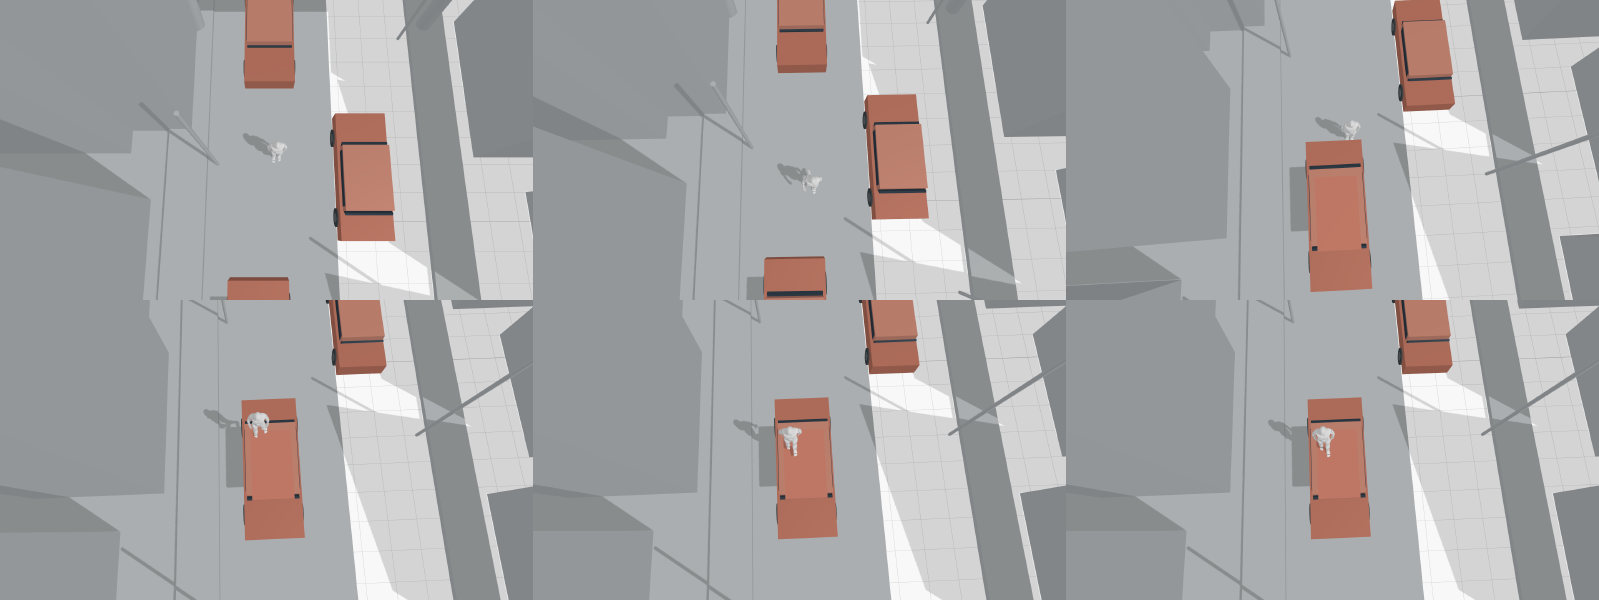
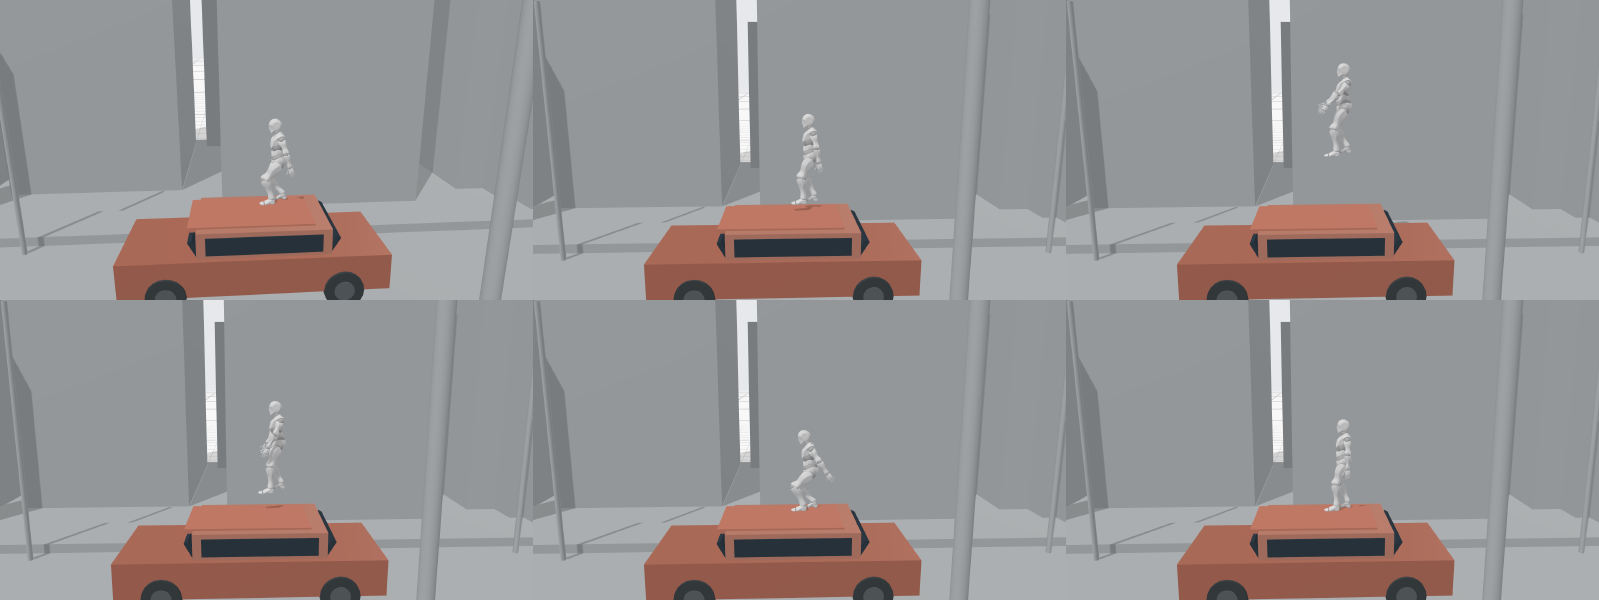
Change jump sequence to side camera view

diff --git a/README.md b/README.md
@@ -1,9 +1,9 @@
 # Car roof jump — CozyClay
 
-CozyClay 장면에서 캐릭터가 차 지붕으로 올라가 점프한 뒤 다시 지붕에 착지합니다. 카메라는 이동부터 착지까지 높은 상단 시점으로 따라갑니다.
+CozyClay 장면에서 캐릭터가 차 지붕으로 올라가 점프한 뒤 다시 지붕에 착지합니다. 카메라는 이동부터 착지까지 차 옆면이 보이는 측면 시점으로 따라갑니다.
 
 - `City Block.cclayproject` — 장면, 카메라, 195프레임 모션이 포함된 프로젝트. CozyClay의 **File → Open**에서 엽니다.
 - `car-roof-jump.motion.json` — 점프 동작의 원본 모션 설정.
-- `preview.png` — 상단 시점에서 본 이동, 지붕 위 점프, 착지 장면 미리보기.
+- `preview.png` — 측면 시점에서 본 지붕 위 점프와 착지 장면 미리보기.
 
 현재 캐릭터는 CozyClay 기본 Y Bot 모델입니다. 첨부되었던 인물 사진은 아직 캐릭터 외형에 적용되지 않았으며 이 저장소에 포함하지 않았습니다.
